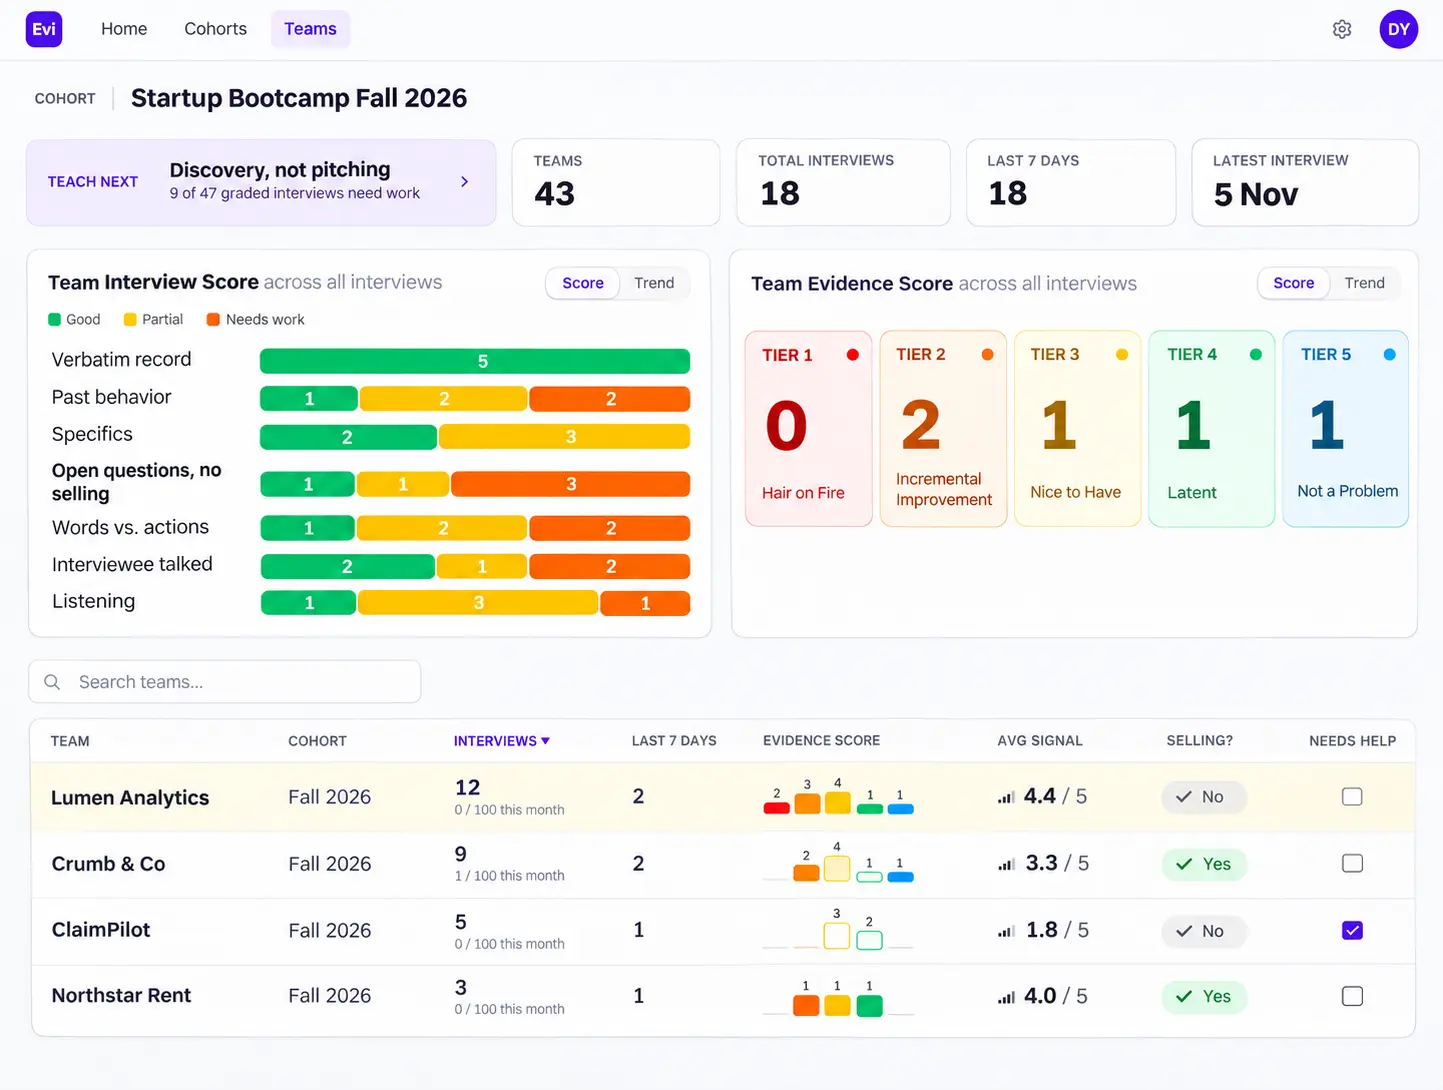
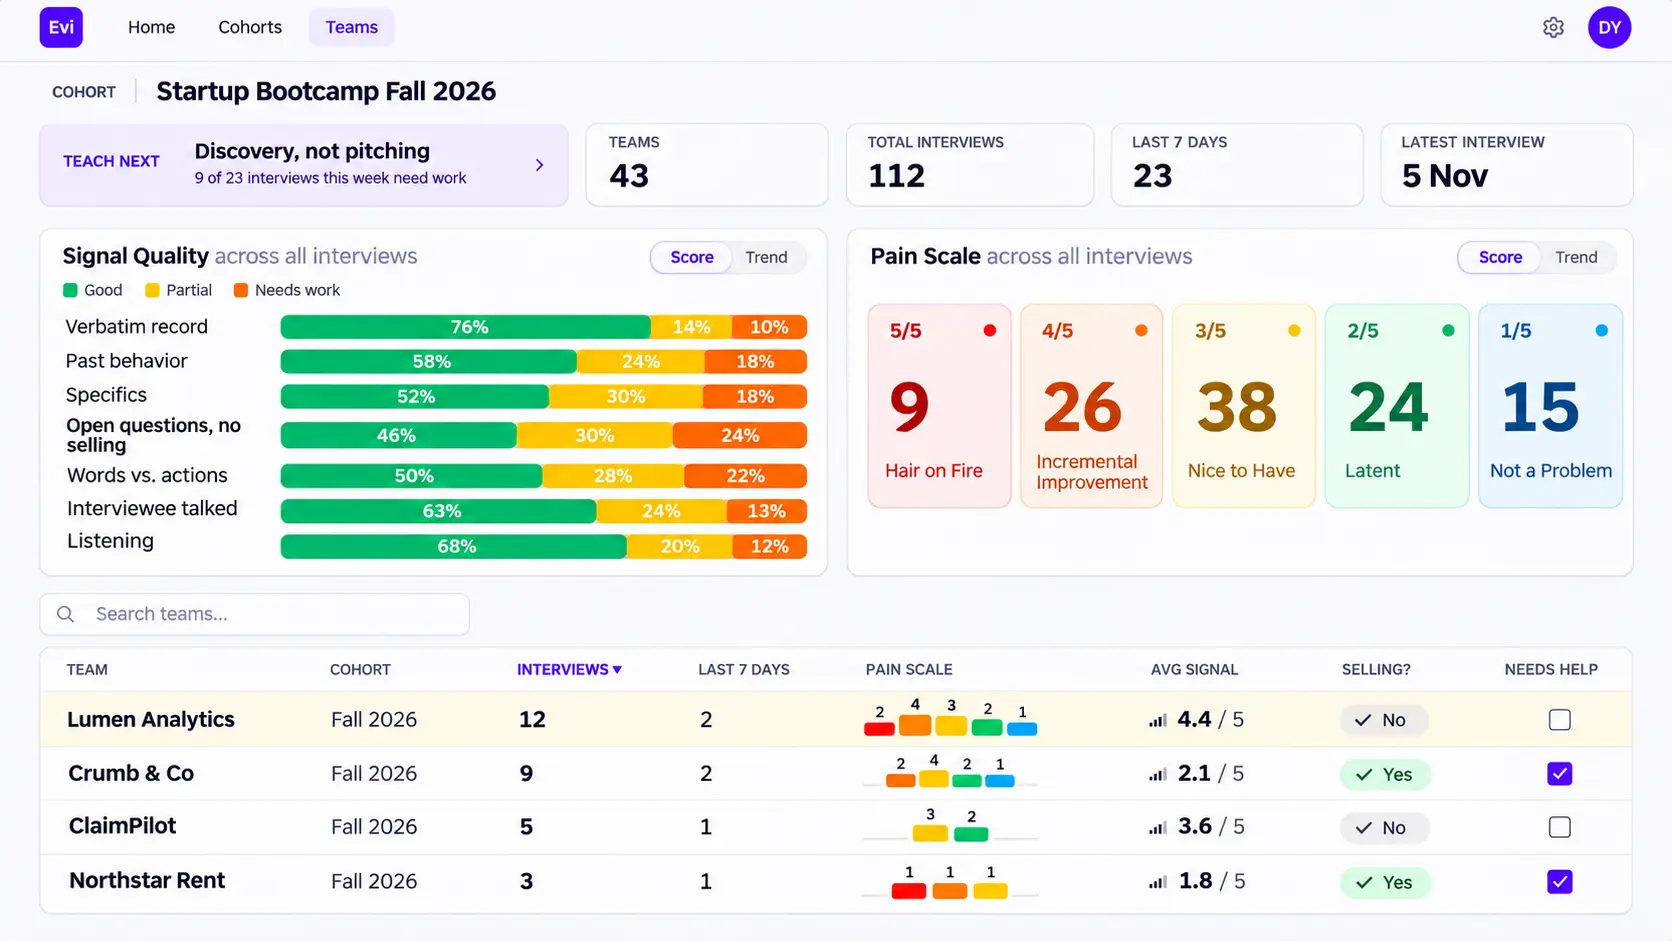
Replace Evi post screenshots with updated founder and cohort views
Claude-Session: https://claude.ai/code/session_013eqLqSttRuCtB7iBSsJ5j5

diff --git a/src/routes/blog.introducing-evi.tsx b/src/routes/blog.introducing-evi.tsx
@@ -251,8 +251,8 @@ function ArticlePage() {
             src={`${IMG}/founder-view.webp`}
             alt="Founder’s view in Evi: a sample scored interview with line-by-line feedback."
             caption="Founder’s View: Sample Scored Interview"
-            width={1654}
-            height={951}
+            width={1672}
+            height={941}
           />
           <p>
             For founders, it’s a fast track to mastering customer discovery and gaining insight into
@@ -310,8 +310,8 @@ function ArticlePage() {
             src={`${IMG}/cohort-view.webp`}
             alt="Cohort view in Evi for instructors and accelerator managers: a dashboard across every team."
             caption="Cohort View for Instructors and Accelerator Managers"
-            width={1443}
-            height={1090}
+            width={1672}
+            height={941}
           />
 
           <H2>Early results</H2>
